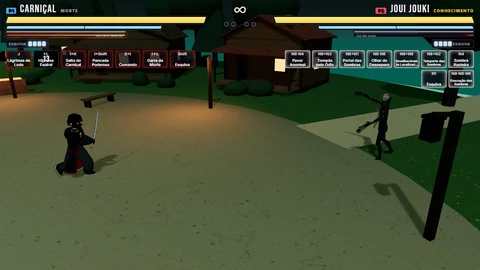
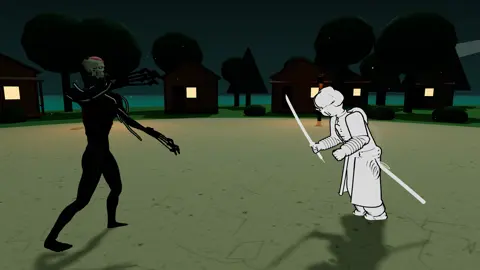
Release v4.9.1: review Copilot work and refresh Hipnose photo
- About page: close-up of Carniçal's Hipnose Espiral on Joui in Tipora;
  specials paragraph now mentions the Carniçal; alt text revised.
- char_carnical.py: "PROPOSTA visual" comments rewritten as the reason
  for the contrast tweak (no model change).
- TODO: repo rename marked done; review notes and open items recorded.
- Version 4.9.1 in version.js, package.json/lock, README and changelogs.

diff --git a/sobre.html b/sobre.html
@@ -190,11 +190,12 @@
         </div>
       </div>
       <div class="feature">
-        <img src="%BASE_URL%sobre/marionete.webp" srcset="%BASE_URL%sobre/marionete-480.webp 480w, %BASE_URL%sobre/marionete.webp 800w" sizes="(min-width: 1024px) 540px, (min-width: 900px) 55vw, 100vw" width="800" height="450" loading="lazy" decoding="async" alt="Carniçal usa Hipnose Espiral em Joui, que entra em transe na praça de Tipora" />
+        <img src="%BASE_URL%sobre/marionete.webp" srcset="%BASE_URL%sobre/marionete-480.webp 480w, %BASE_URL%sobre/marionete.webp 800w" sizes="(min-width: 1024px) 540px, (min-width: 900px) 55vw, 100vw" width="800" height="450" loading="lazy" decoding="async" alt="Carniçal estende as garras e usa a Hipnose Espiral em Joui, que se curva em transe no vilarejo de Tipora" />
         <div>
           <h3>Especiais e invocações</h3>
           <p>Cada lutador tem o seu especial cinematográfico, tirado da própria história: o Gaius anula a habilidade do
-            adversário, a Jae some e surge nas costas deixando o X, a Amalia faz chover flechas e mira na cabeça. Alguns
+            adversário, a Jae some e surge nas costas deixando o X, a Amalia faz chover flechas e mira na cabeça, e o Carniçal
+            hipnotiza o oponente para que ele se fira com a própria arma. Alguns
             invocam criaturas de verdade, com vida e ataques próprios — como a Marionete do Dante, que às vezes se volta contra
             quem a chamou. E Os Cinco lutam como grupo: o Chico chama a van no walkie e a Dara vem no volante atropelando.</p>
         </div>

diff --git a/src/config/version.js b/src/config/version.js
@@ -1,6 +1,6 @@
 // Versão semântica do jogo e NOVIDADES (changelog).
 // Para uma nova atualização: atualize VERSION e acrescente a entrada no TOPO de CHANGELOG.
-export const VERSION = '4.9.0';
+export const VERSION = '4.9.1';
 export const VERSION_LABEL = `v${VERSION}`;
 
 export function formatVersion(version) {
@@ -11,6 +11,14 @@ export function formatVersion(version) {
 }
 
 export const CHANGELOG = [
+  {
+    v: '4.9.1',
+    date: '2026-11-02',
+    title: 'Retoques',
+    items: [
+      'Página Sobre: foto nova, de perto, do Carniçal hipnotizando Joui em Tipora, e o Carniçal citado nos especiais.',
+    ],
+  },
   {
     v: '4.9.0',
     date: '2026-11-02',

diff --git a/tools/blender/char_carnical.py b/tools/blender/char_carnical.py
@@ -141,7 +141,7 @@ def torso_fn(p):
     if z > 1.52 and ax < 0.08 * H:  # pescoço: tendões verticais
         v = ridge(math.atan2(p.x, p.y) * 9 + w)
     elif p.y < -0.05 * H and z > 1.36 and ax < 0.24 * H:  # peitorais em leque
-        # PROPOSTA visual: estrias mais discretas sob a luz roxa das arenas
+        # amplitude baixa: sob a luz roxa das arenas as estrias fortes viravam listras
         v = ridge(math.atan2(p.z - 1.54 * H, ax + 0.02 * H) * 40 + w) * 0.55
     elif p.y < -0.05 * H and z <= 1.36 and ax < 0.09 * H:  # o abdômen (a forma vem da base): fibras verticais finas
         v = ridge(p.x / H * 120 + w) * 0.7
@@ -214,7 +214,7 @@ for pl in bo.data.polygons:
 def body_col(p):
     fn = body_fn(p, DOM.get(key(p), 'hips'))
     k = lim(fn / AMP + 0.35) ** 2
-    # PROPOSTA visual: reduzir o contraste das cristas no jogo
+    # cristas pouco mais claras que o Lodo: com mais contraste o corpo ficava listrado no jogo
     c = C['lodo'].lerp(C['crest'], k * 0.4)
     r = red_zone(p)
     return c.lerp(C['ember'].lerp(C['crest'], k * 0.3), r * 0.6) if r > 0 else c

diff --git a/TODO.md b/TODO.md
@@ -1,8 +1,18 @@
 # TODO — VÉU PARTIDO (antes Arena Paranormal)
 
-**Versão de referência atual:** v4.9.0 (2026-11-02: passiva e Investida Mortal do Carniçal; modelos refinados; fotos novas da página Sobre; casas e Torre do Sino em Tipora). Antes: v4.8.0 Especiais em Equipe.
+**Versão de referência atual:** v4.9.1 (2026-11-02: revisão do trabalho do Copilot; foto de perto da Hipnose na página Sobre). Antes: v4.9.0 passiva e Investida Mortal do Carniçal, casas e Torre do Sino em Tipora; v4.8.0 Especiais em Equipe.
 **Documento:** TODO principal
 **Histórico de desenvolvimento:** Changelog Admin + Changelog Cliente
+
+## Revisão do trabalho do Copilot (v4.9.1, 2026-11-02)
+- [x] Conferido no jogo: Olhar ao Agressor (o atacante entra em transe e se golpeia, ~22 de dano) e Investida Mortal no
+      □ do Instinto Mortal (dashStrike, nome no HUD troca). Testes 62/62, `check` e `build` verdes.
+- [x] Página Sobre: a foto da Hipnose estava longe e escura e o texto de "Especiais e invocações" só falava da Marionete.
+      Foto nova de perto (Carniçal de garras estendidas, Joui curvado em transe em Tipora) e o Carniçal citado no texto.
+- [x] `char_carnical.py`: os comentários "PROPOSTA visual" viraram o porquê do ajuste (contraste não é cânone, é
+      leitura no jogo); o .glb não muda.
+- [ ] Tag `v4.7.1` não existe (a release saiu junto da v4.8.0); criar só se o dono quiser os apps dela separados.
+- [ ] Fotos da seleção e da luta na página Sobre também estão escuras/longe, com muito HUD; refazer de perto quando der.
 
 ## Nota de passagem — Copilot (v4.9.0)
 - [x] Carniçal: passiva canônica Olhar ao Agressor e Investida Mortal no Instinto Mortal; parâmetros de chance, recarga, transe e dano da passiva são PROPOSTA de jogo.
@@ -26,8 +36,8 @@
   da Membrana), ícones/favicon (`tools/make-icons.py`), títulos, manifest, Sobre, 404, 13 idiomas, nome do app no PC/Android,
   README e changelogs com a transição registrada. Mantidos: URL `/arena-paranormal/`, appId, chaves de save, ID do online,
   nomes dos arquivos baixados.
-  - [~] Repositório/URL → `veu-partido` (pedido do dono, 2026-11-01, v4.7.0): código e links trocados; falta o `gh repo rename`
-    + o Pages no push. Os arquivos `Arena-Paranormal-*.exe/.apk` continuam com o nome antigo (decidir à parte).
+  - [x] Repositório/URL → `veu-partido` (pedido do dono, 2026-11-01, v4.7.0): código e links trocados, `gh repo rename`
+    feito e o Pages publicado em https://romavitordev.github.io/veu-partido/. Os arquivos `Arena-Paranormal-*.exe/.apk` continuam com o nome antigo (decidir à parte).
   - [ ] `public/ordo-realitas.ico` ficou sem uso (mantido); apagar quando quiser.
 - [x] **Menu no celular deitado não cabia** (pedido do dono, v4.2.0): duas colunas em tela baixa.
 - [x] **Fundo único dos personagens na seleção** (pedido do dono, v4.2.0): `portraits.js`, no lugar da cor da equipe.

diff --git a/CHANGELOG-ADMIN.md b/CHANGELOG-ADMIN.md
@@ -1,5 +1,13 @@
 # Registro administrativo de alterações
 
+## v4.9.1 — Retoques
+
+- Versão: `VERSION` 4.9.0 → **4.9.1** (`package.json`/lock junto). Data: 2026-11-02.
+- Revisão do trabalho do Copilot (v4.7.1–v4.9.0): passiva `aggressorGaze` e `awakening.ranged` do Carniçal conferidas no jogo.
+- Página Sobre: `marionete.webp`/`-480` trocadas por um close da Hipnose Espiral (câmera a ~3,5 m, render 1600×900 → WebP 800/480); parágrafo de especiais cita o Carniçal; `alt` revisado.
+- `char_carnical.py`: comentários "PROPOSTA visual" reescritos (ajuste de leitura, não de cânone); sem rebuild.
+- TODO: repositório `veu-partido` marcado como feito; pendências registradas (tag v4.7.1 opcional, fotos da seleção/luta).
+
 ## v4.9.0 — O Carniçal Desperta
 
 - Versão: `VERSION` 4.8.0 → **4.9.0** (`package.json`/lock junto). Data: 2026-11-02.

diff --git a/README.md b/README.md
@@ -13,7 +13,7 @@ Jogo de luta 3D em arena com temática paranormal. Combate rápido e acessível,
 movimentação livre, ataques direcionais, defesa, esquiva, habilidades por combinação de
 botões e especiais cinematográficos. Feito com **Three.js + Vite**, roda no navegador.
 
-Versão atual do jogo: **v4.9.0**.
+Versão atual do jogo: **v4.9.1**.
 
 > Jogo **fan made**: projeto de fã sem fins lucrativos, baseado em *Ordem Paranormal* (Cellbit). Não é um jogo oficial.
 

diff --git a/CHANGELOG-CLIENTE.md b/CHANGELOG-CLIENTE.md
@@ -2,6 +2,9 @@
 
 Este arquivo reúne as mesmas novidades exibidas no menu do jogo.
 
+## v4.9.1 — Retoques
+- Página Sobre: foto nova, de perto, do Carniçal hipnotizando Joui em Tipora.
+
 ## v4.9.0 — O Carniçal Desperta
 - Carniçal: ao ser atingido de perto, pode hipnotizar o agressor para que ele se golpeie uma vez.
 - No Instinto Mortal, o □ vira a Investida Mortal.

diff --git a/CHANGELOG.md b/CHANGELOG.md
@@ -1,5 +1,11 @@
 # Changelog
 
+## v4.9.1 — Retoques
+
+### Atualizado
+- Página Sobre: foto de perto do Carniçal usando a Hipnose Espiral em Joui (Tipora), e o texto de "Especiais e invocações" cita o Carniçal.
+- Comentários do modelo do Carniçal explicam o ajuste de contraste (sem mudança no modelo).
+
 ## v4.9.0 — O Carniçal Desperta
 
 ### Adicionado
